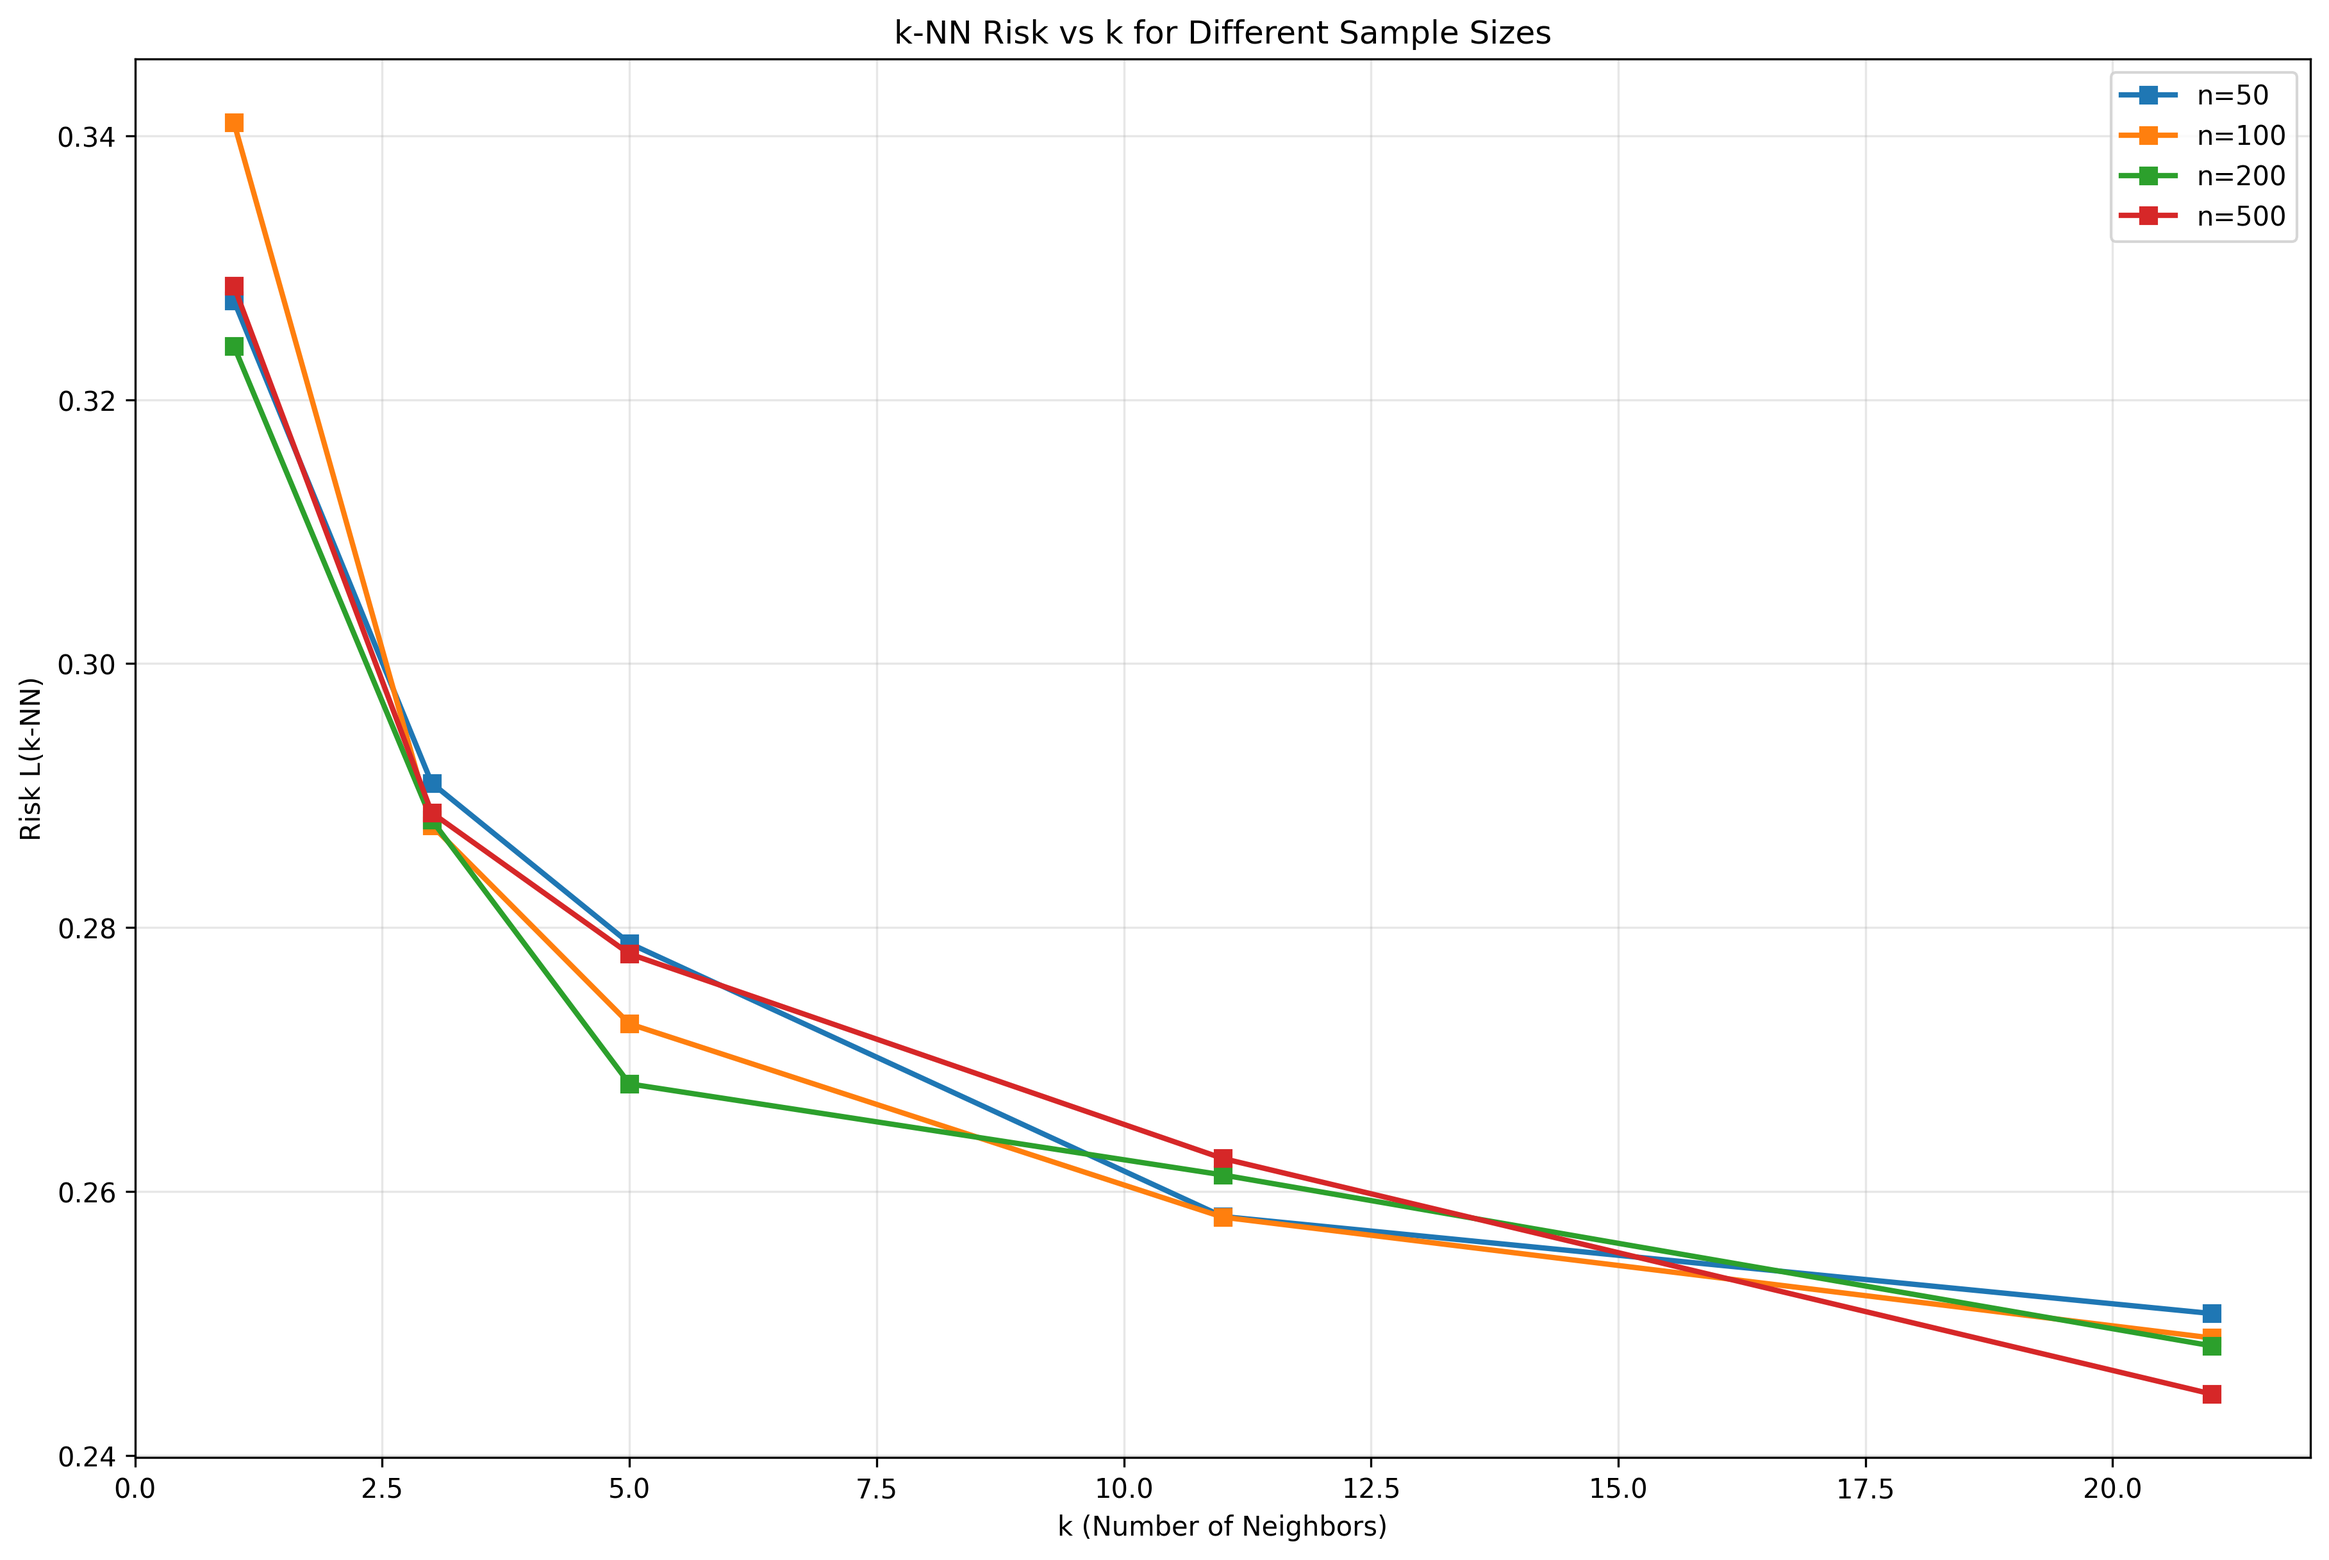
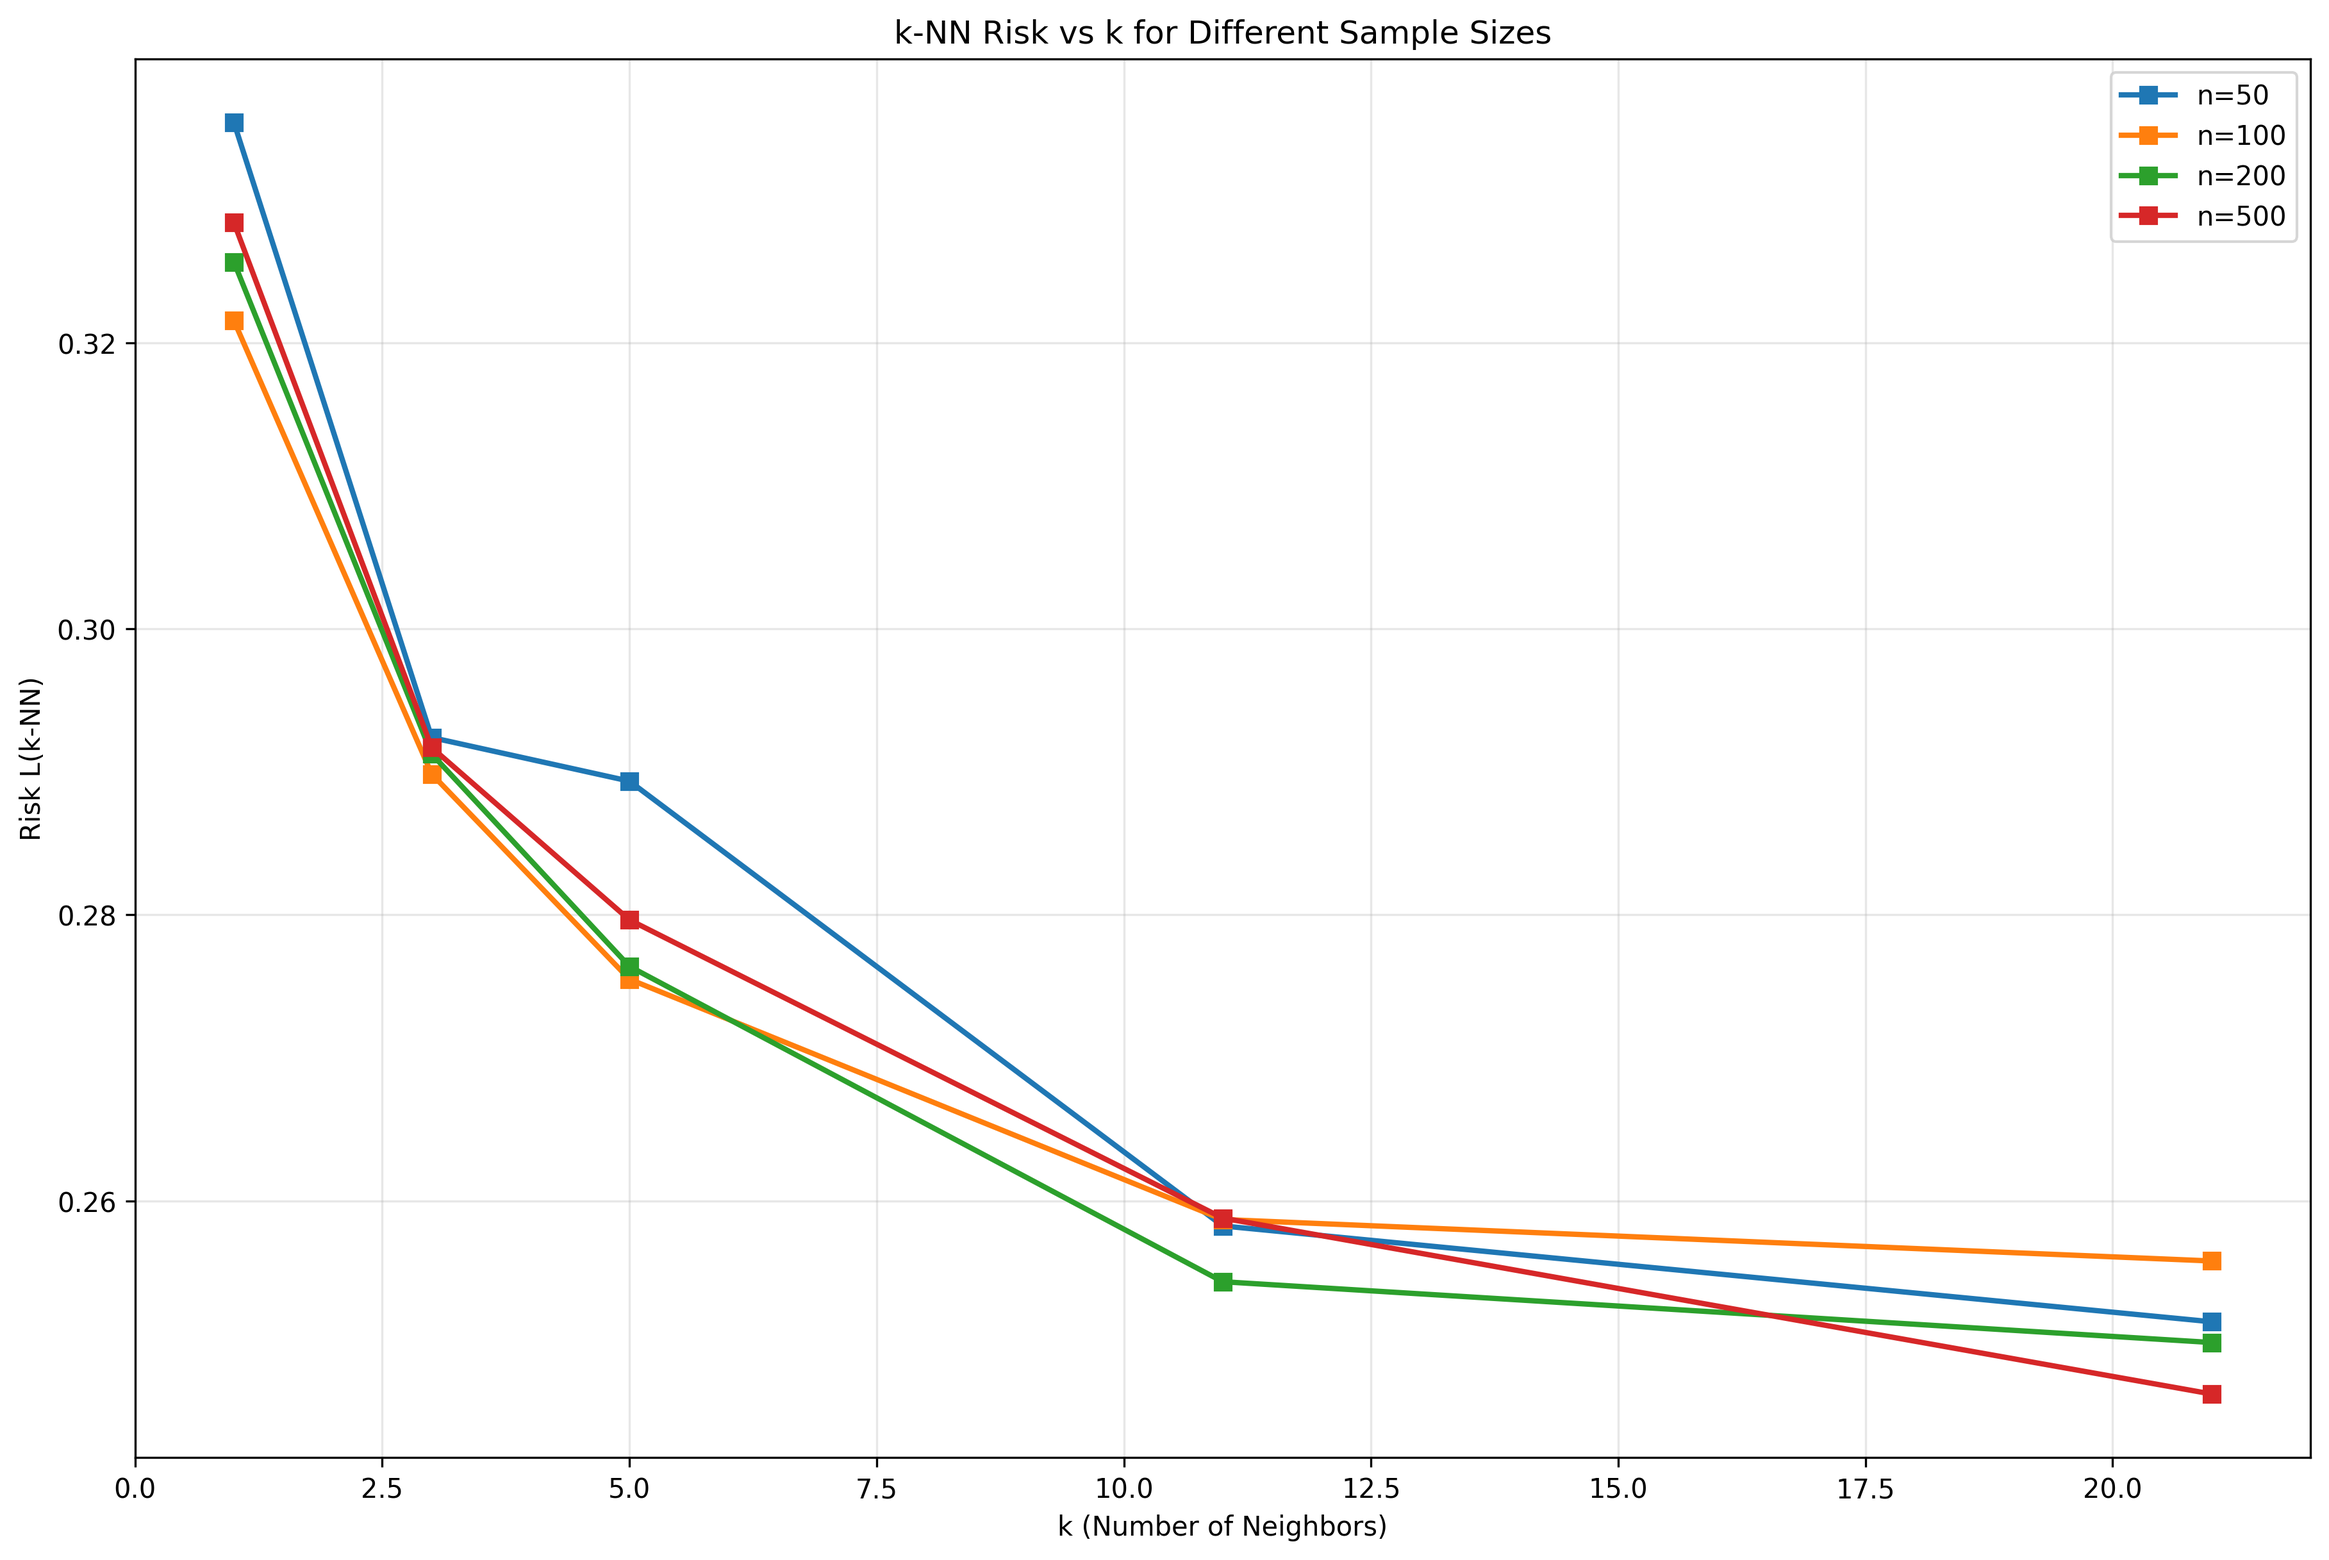
update: main.py

Changed region(s): [[0.0933, 0.0624, 0.964, 0.9055], [0.0311, 0.7494, 0.0622, 0.7806], [0.0311, 0.4059, 0.0622, 0.4371]]

diff --git a/Parte 2/main.py b/Parte 2/main.py
@@ -63,6 +63,24 @@ def main():
         "Clases Desbalanceadas con Misma Covarianza", 
         "unbalanced_distinct_cov"
     )
+
+    # Experimento 7: Clases balanceadas separadas
+    print("Ejecutando experimento 7: Clases balanceadas, separadas")
+    create_comparison_figure(
+        SEPARATED_MEANS, LOW_COVS,
+        SAMPLE_SIZES_BALANCED,
+        "Clases balanceadas separadas", 
+        "balanced_separated_classes"
+    )
+
+    # Experimento 8: Clases balanceadas juntas
+    print("Ejecutando experimento 8: Clases balanceadas, juntas")
+    create_comparison_figure(
+        SAME_MEANS, [2*np.identity(2), 0.2*np.identity(2)],
+        SAMPLE_SIZES_BALANCED,
+        "Clases balanceadas juntas", 
+        "balanced_joined_classes"
+    )
     
     print("Todos los experimentos completados. Figuras guardadas en ./figures/")
 

diff --git a/Parte 2/utils/config.py b/Parte 2/utils/config.py
@@ -23,7 +23,7 @@ REPS = 20                 # Réplicas para experimentos
 # Medias para diferentes escenarios
 DIFF_MEANS = [np.array([-1, 0]), np.array([0, 1])]
 SAME_MEANS = [np.zeros(2), np.zeros(2)]
-SEPARATED_MEANS = [np.array([-2, 0]), np.array([2, 0])]
+SEPARATED_MEANS = [np.array([-3, 0]), np.array([3, 0])]
 
 # Matrices de covarianza para diferentes escenarios
 SAME_COVS = [
